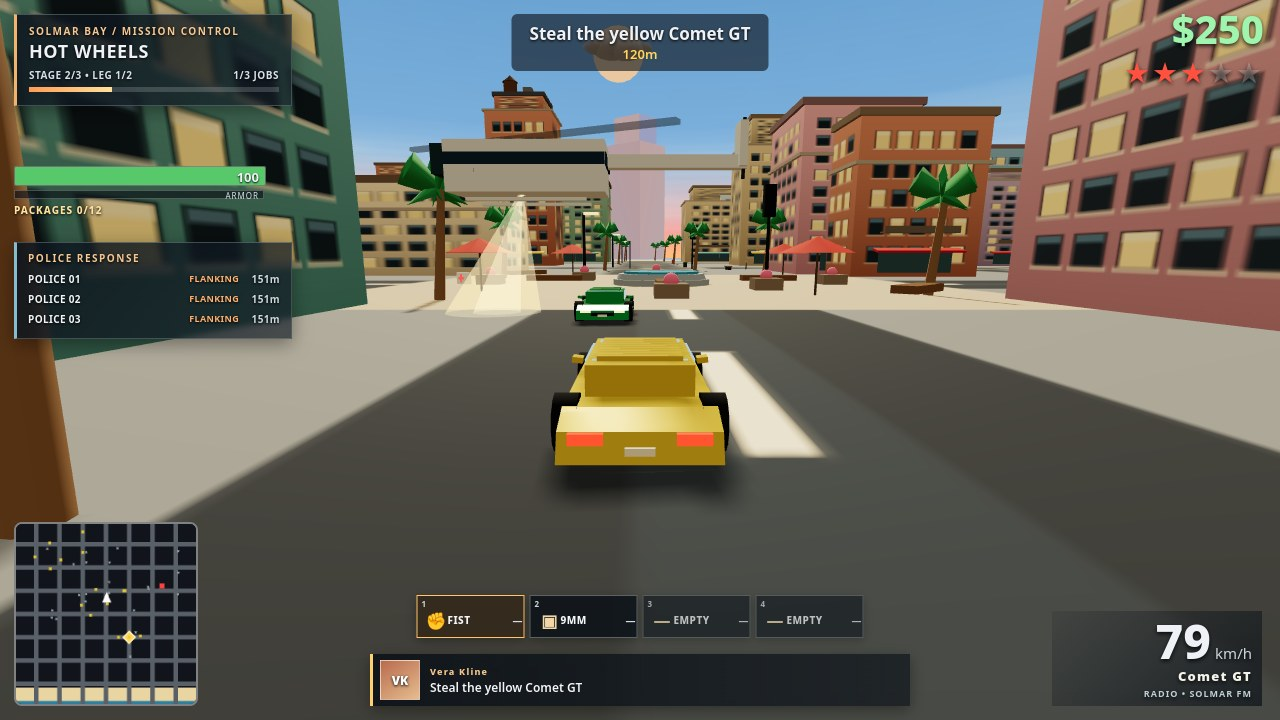
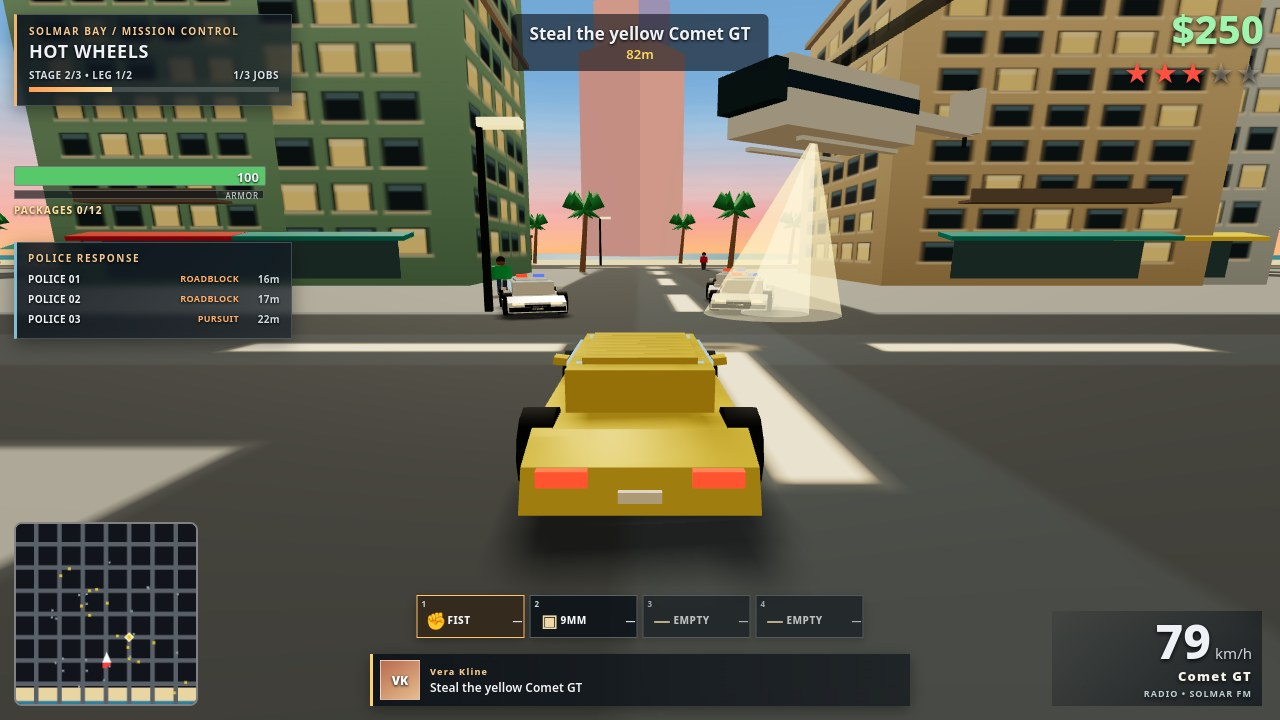
Round 9 visual push (recorded agy): winner-pattern screenshots — orange hero car ~1/4 frame, big heli vs sky, flanking police, avenue street, dusk band

diff --git a/game/src/main.js b/game/src/main.js
@@ -480,8 +480,6 @@ function clearShotLane() {
     }
     return;
   }
-  if (laneCleared) return;
-  laneCleared = true;
   for (const vehicle of [...motorists.cars]) {
     const dx = vehicle.x - ride.x, dz = vehicle.z - ride.z;
     const forward = dx * Math.sin(ride.heading) + dz * Math.cos(ride.heading);
@@ -493,10 +491,9 @@ function pinShot() {
   if (!ride || ride.wrecked || !['chase', 'mission'].includes(shotPage)) return;
   ride.speed = Math.max(22, ride.speed);
   clearShotLane();
-  if (shotPage !== 'chase') return;
   patrol.cars.slice(0, 3).forEach((unit, index) => {
-    const ahead = index === 2 ? 13 : 27 + index * 12;
-    const side = index === 2 ? 12 : index === 0 ? -5 : 6;
+    const ahead = index === 0 ? 15 : index === 1 ? 16 : 21;
+    const side = index === 0 ? 4.4 : index === 1 ? -4.4 : -4.8;
     unit.x = ride.x + Math.sin(ride.heading) * ahead + Math.cos(ride.heading) * side;
     unit.z = ride.z + Math.cos(ride.heading) * ahead - Math.sin(ride.heading) * side;
     unit.heading = Math.atan2(ride.x - unit.x, ride.z - unit.z);
@@ -524,8 +521,8 @@ function aimCamera(delta) {
     controls.setYaw(controls.yaw + turn * Math.min(1, delta * 1.4));
   }
   const compact = ['chase', 'mission'].includes(shotPage);
-  const radius = driving ? compact ? 6.5 : 12.5 : 7.5;
-  const elevation = driving ? (compact ? 2.2 : 2.8) + controls.pitch * 4 : 1.55 + controls.pitch * 3.5;
+  const radius = driving ? compact ? 4.5 : 12.5 : shotPage === 'city' ? 5.2 : 7.5;
+  const elevation = driving ? (compact ? 2.0 : 2.8) + controls.pitch * 4 : (shotPage === 'city' ? 1.4 : 1.55) + controls.pitch * 3.5;
   const yawAngle = controls.yaw;
   const pitchAngle = controls.pitch;
   const desired = new THREE.Vector3(subject.x - Math.sin(yawAngle) * Math.cos(pitchAngle) * radius, Math.max(1.2, (hero.y || 0) + elevation + Math.sin(pitchAngle) * radius), subject.z - Math.cos(yawAngle) * Math.cos(pitchAngle) * radius);
@@ -725,7 +722,11 @@ function setupShot(label) {
     return;
   }
   if (label === 'city') {
-    town.followHeli(hero, () => controls.yaw, { forward: 28, side: 7, height: 4.2 });
+    relocate(4, 95);
+    hero.heading = 0;
+    controls.setYaw(0);
+    controls.setPitch(0.04);
+    town.followHeli(hero, () => controls.yaw, { forward: 22, side: -10, height: 7.8, yawOffset: 0.6 });
     return;
   }
   if (label === 'mission' || label === 'chase') {
@@ -733,8 +734,8 @@ function setupShot(label) {
       jobs.startMission(1, 1);
       maintainPrize();
     }
-    grantRide(label === 'mission' ? 0xe8c832 : 0x387bc2);
-    relocate(2, -120);
+    grantRide(label === 'mission' ? 0xe8c832 : 0xe86a2c);
+    relocate(2, 35);
     ride.heading = 0;
     ride.speed = 22;
     controls.setYaw(0);
@@ -751,7 +752,7 @@ function setupShot(label) {
     // it to side +5 so it clears the PIER 9 sign in chase (sign spans x -8.5..0.5).
     controls.setPitch(0.05);
     town.followHeli(ride, () => ride.heading, {
-      forward: 17, side: 5, height: 6.5, aimAtTarget: true,
+      forward: 15, side: -7.0, height: 7.5, yawOffset: 0.55, aimAtTarget: true,
     });
     pinShot();
     fleetView.sync(motorists.cars, patrol.cars);

diff --git a/game/src/world.js b/game/src/world.js
@@ -643,7 +643,7 @@ function addAircraft(city) {
   const glass = surface(0x263f48, 0.48, { metalness: 0.04, emissive: 0x10191c, emissiveIntensity: 0.12 });
   mount(aircraft, cuboid(1.55, 1.05, 2.36), glass, [2.6, 0.24, 0]);
   const rotor = mount(aircraft, cuboid(12, 0.16, 0.42),
-    surface(0x29343a, 0.82, { transparent: true, opacity: 0.42 }), [0, 1.2, 0]);
+    surface(0x29343a, 0.82, { transparent: true, opacity: 0.75 }), [0, 1.2, 0]);
   mount(aircraft, cuboid(0.12, 2.2, 0.12), surface(0x29343a, 0.82), [-8.1, 0.8, 0]);
 
   const lamp = [0.35, -0.65, 0];
@@ -654,7 +654,7 @@ function addAircraft(city) {
     lamp[1] - Math.cos(beam.tilt) * beam.length / 2,
     lamp[2],
   ];
-  for (const [radius, facets, hue, opacity] of [[3, 24, 0xfff3c8, 0.35], [1.5, 20, 0xfff8df, 0.3]]) {
+  for (const [radius, facets, hue, opacity] of [[3, 24, 0xfff3c8, 0.48], [1.5, 20, 0xfff8df, 0.42]]) {
     mount(aircraft, cone(radius, beam.length, facets, 1, true), flat({
       color: hue, opacity, side: Three.DoubleSide, toneMapped: false, transparent: true, depthWrite: false,
     }), midpoint, { roll: beam.tilt });
@@ -682,6 +682,7 @@ function aviation(aircraft, rotor) {
       const ahead = offset.forward ?? 12;
       const lateral = offset.side ?? 0;
       const altitude = offset.height ?? 8;
+      const turn = offset.yawOffset ?? 0;
       chase = () => {
         const facing = yaw();
         const sine = Math.sin(facing);
@@ -689,7 +690,7 @@ function aviation(aircraft, rotor) {
         const east = target.x + sine * ahead + cosine * lateral;
         const south = target.z + cosine * ahead - sine * lateral;
         aircraft.position.set(east, altitude, south);
-        aircraft.rotation.y = facing;
+        aircraft.rotation.y = facing + turn;
       };
     },
     updateHeliFollow() {
